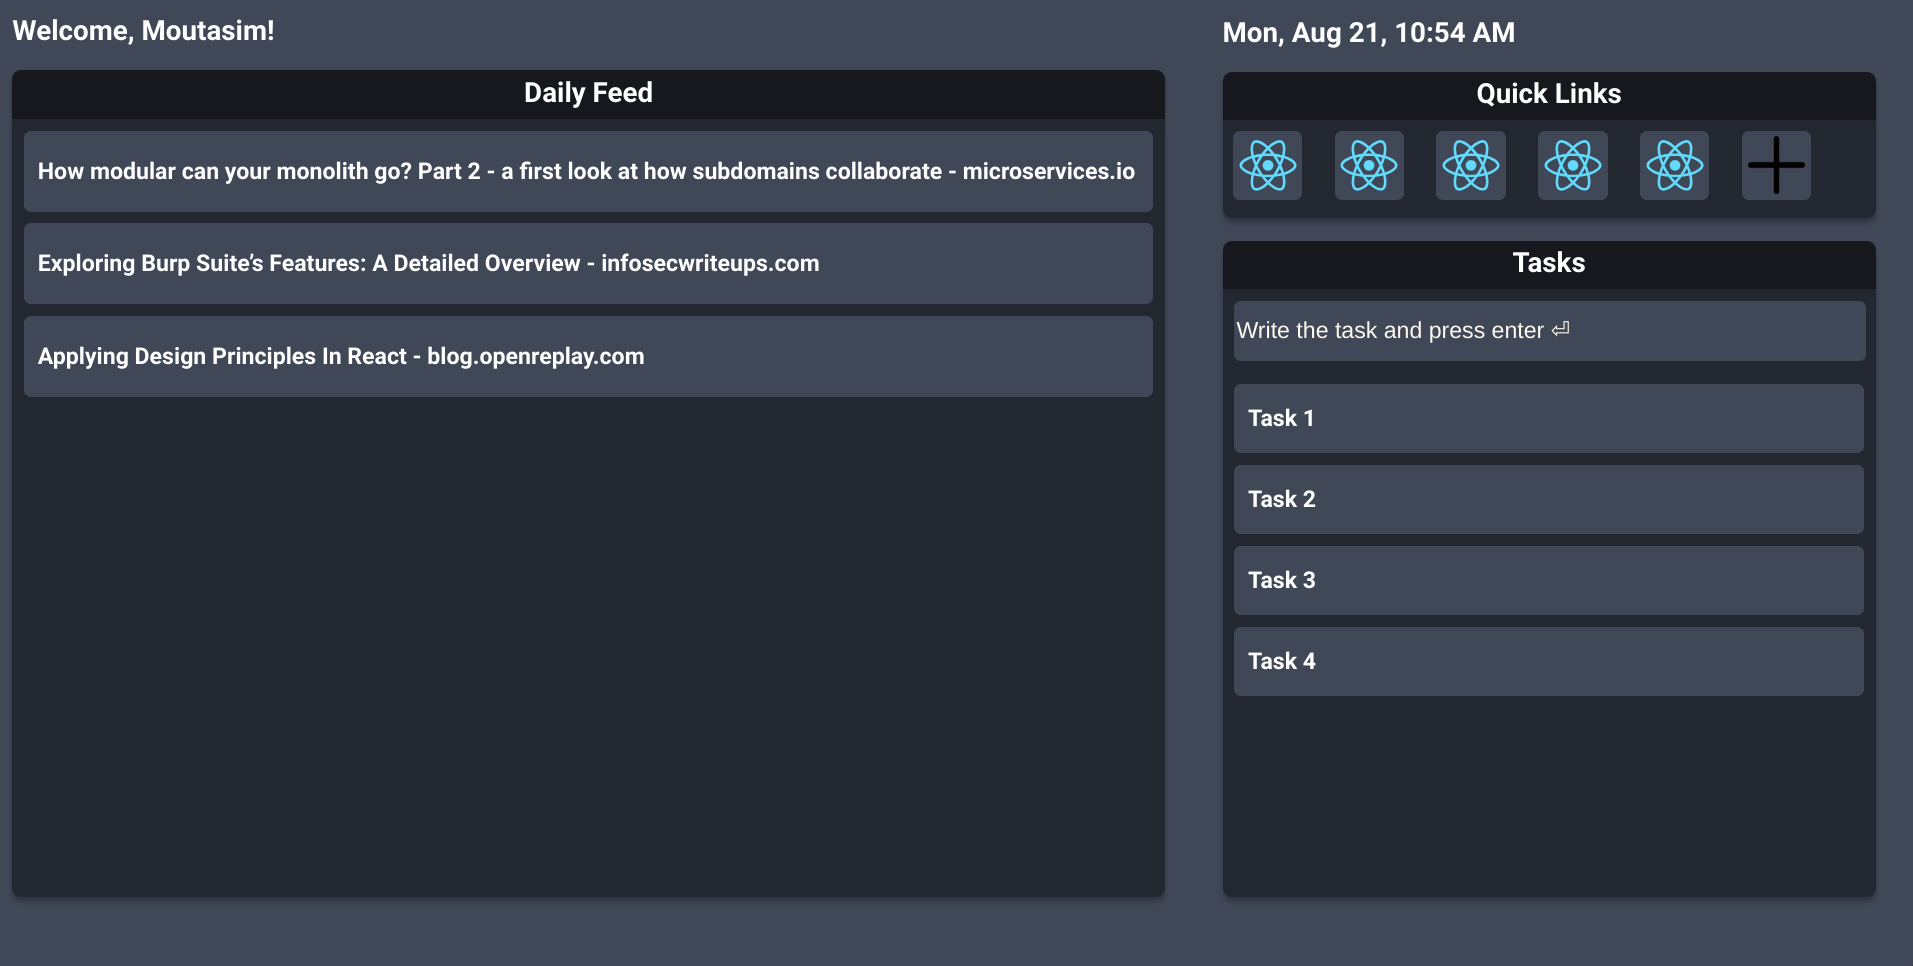
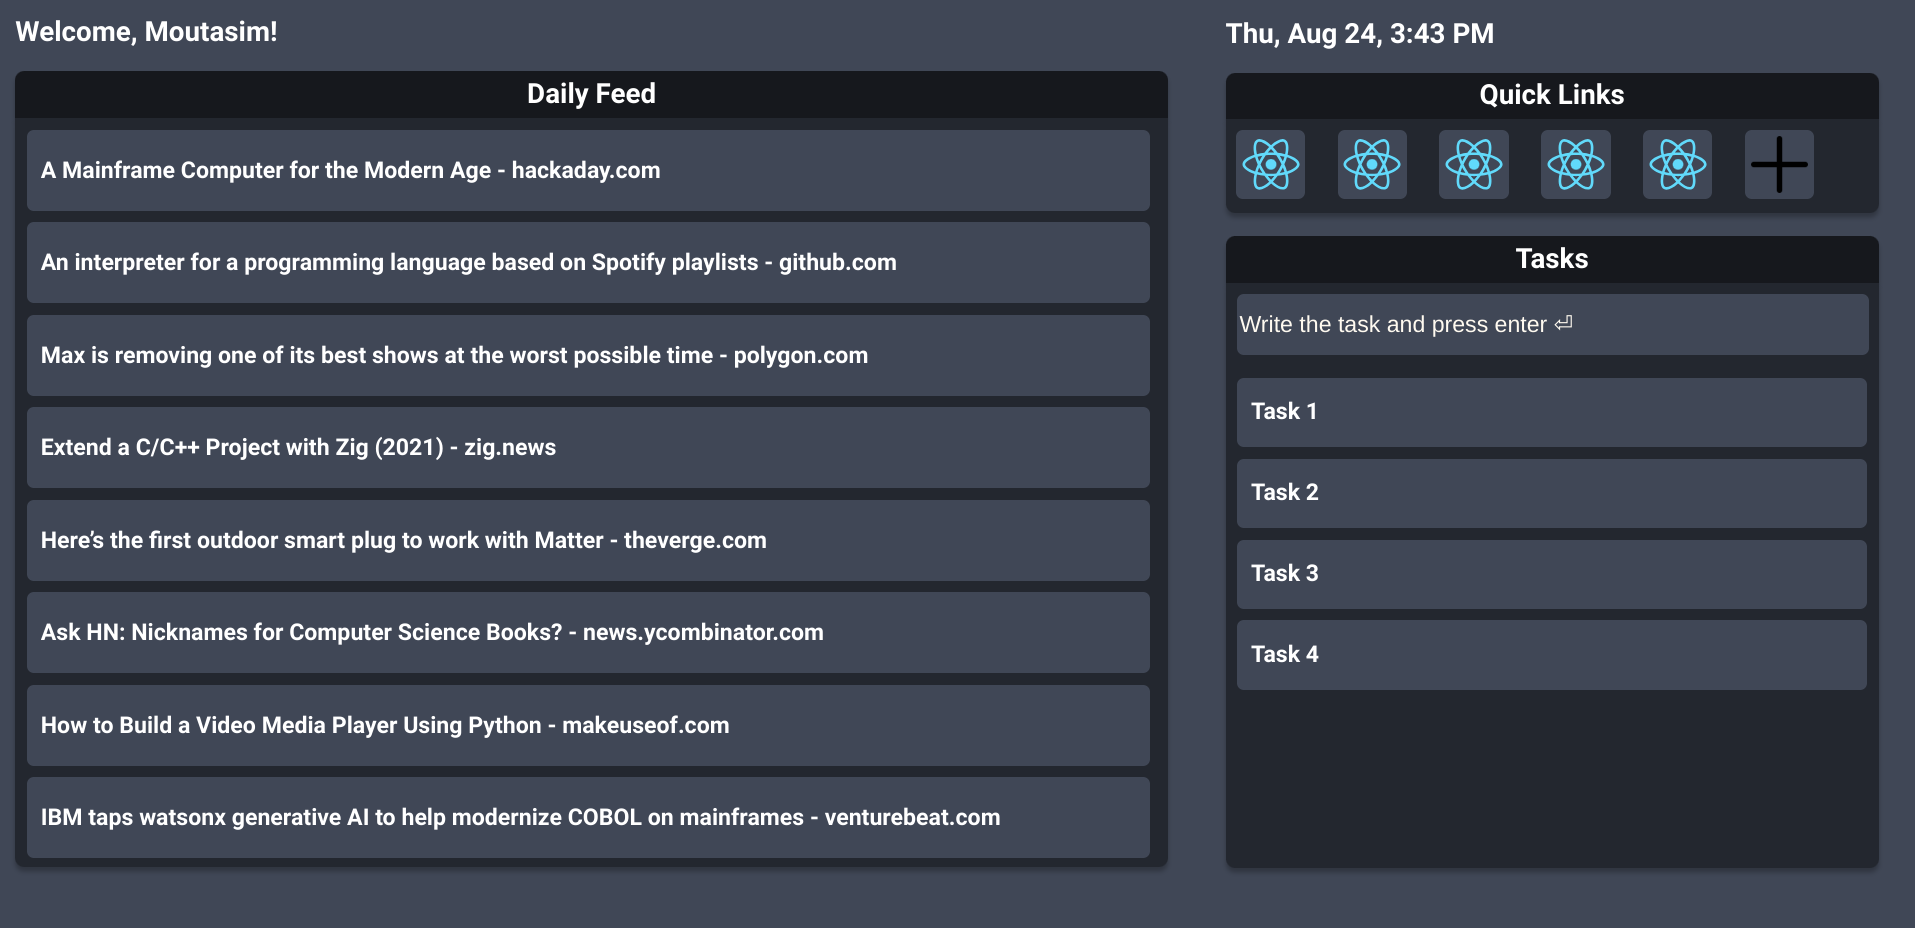
Added NewsAPI for the feeds

diff --git a/src/Components/FeedContainer.jsx b/src/Components/FeedContainer.jsx
@@ -1,9 +1,31 @@
-import React from "react";
+import React, { useState, useEffect } from "react";
 import "../style.css";
 import {NewsBlock} from "./NewsBlock";
 
 // Show all feeds from the endpoint
+
 export const FeedContainer = () => {
+    const [newsData, setNewsData] = useState([]);
+    const apiKey = process.env.REACT_APP_API_KEY;
+
+    useEffect(() => {
+        const url =
+            "https://newsapi.org/v2/everything?" +
+            "q=programming&" +
+            "from=2023-08-20&" +
+            "sortBy=relevancy&" +
+            `apiKey=${apiKey}`;
+
+        fetch(url)
+            .then((response) => response.json())
+            .then((data) => {
+                setNewsData(data.articles);
+            })
+            .catch((error) => {
+                console.error("Error fetching news data:", error);
+            });
+    }, [apiKey]);
+
 
     return (
         <div>
@@ -13,15 +35,13 @@ export const FeedContainer = () => {
             <div>
                 <div className="feedContainer">
                     <div className="newsList">
-                        <NewsBlock title="How modular can your monolith go? Part 2 - a first look at how subdomains collaborate"
-                                   link="https://microservices.io//post/architecture/2023/08/20/how-modular-can-your-monolith-go-part-2.html" ></NewsBlock>
-
-                        <NewsBlock title="Exploring Burp Suite’s Features: A Detailed Overview"
-                                   link="https://infosecwriteups.com/exploring-burp-suites-features-a-detailed-overview-2bacf809c6f8" ></NewsBlock>
-
-                        <NewsBlock title="Applying Design Principles In React"
-                                   link="https://blog.openreplay.com/applying-design-principles-in-react/" ></NewsBlock>
-
+                        {newsData.map((article, index) => (
+                            <NewsBlock
+                                key={index}
+                                title={article.title}
+                                link={article.url}
+                            />
+                        ))}
                     </div>
                 </div>
             </div>

diff --git a/README.md b/README.md
@@ -8,6 +8,9 @@ After each day of work, I will provide a screenshot of the completed work along 
 
 ### Changelog
 
+**Date: 24/08/2023**
+- Added automatic news to the feeds using NewsAPI
+
 **Date: 21/08/2023**
 - Updated the Daily feed to display fixed static news using React props.
 
